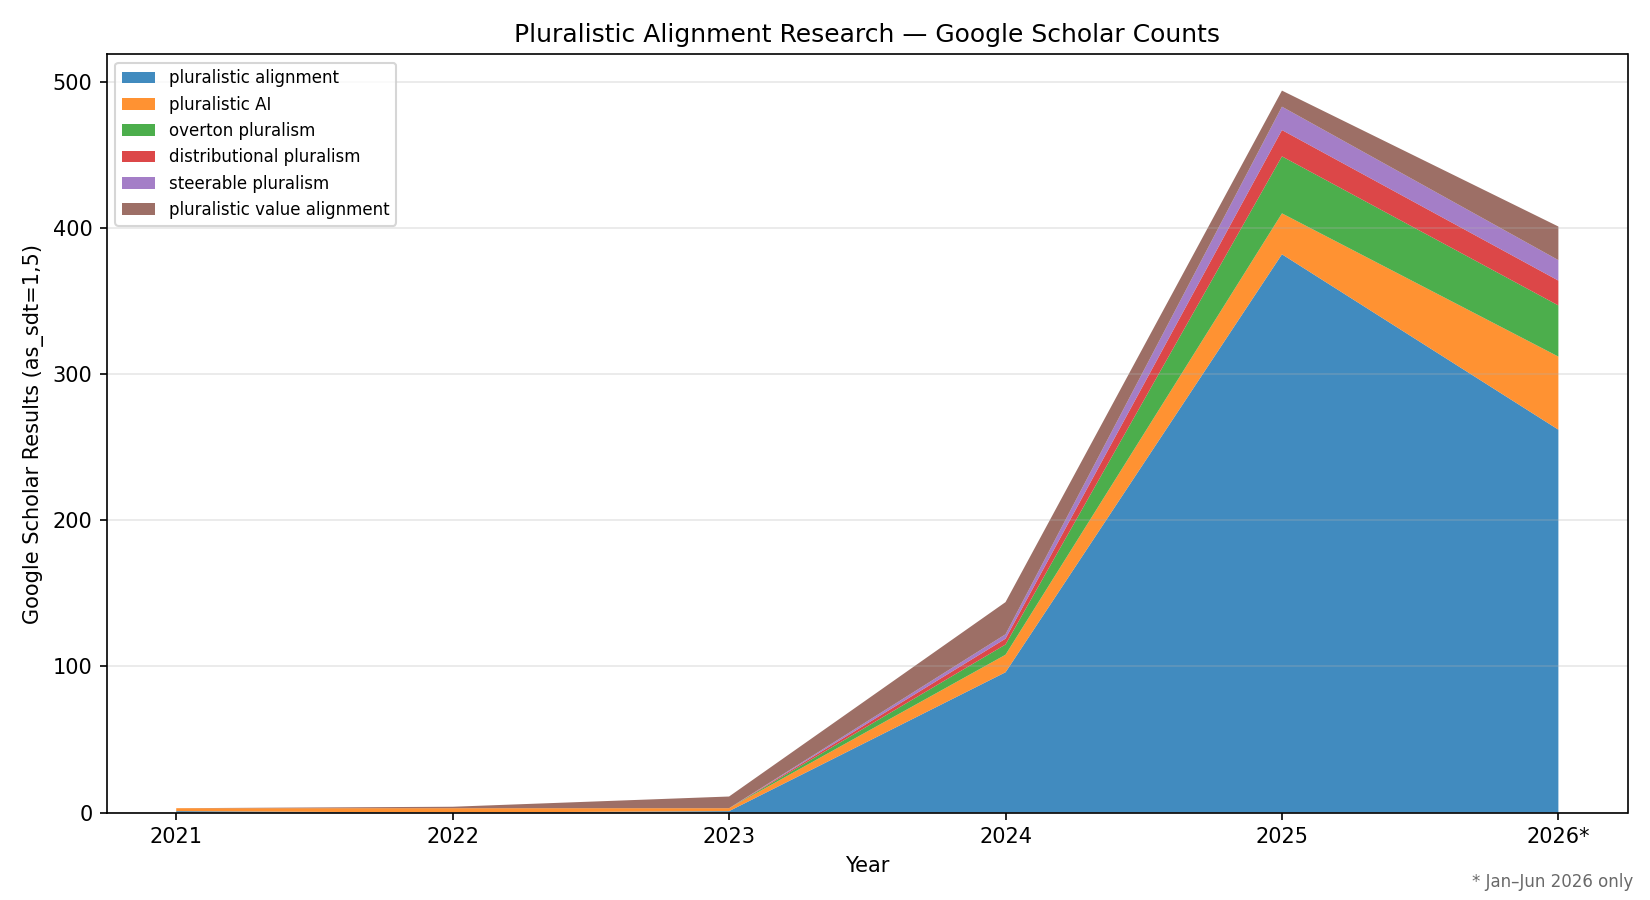
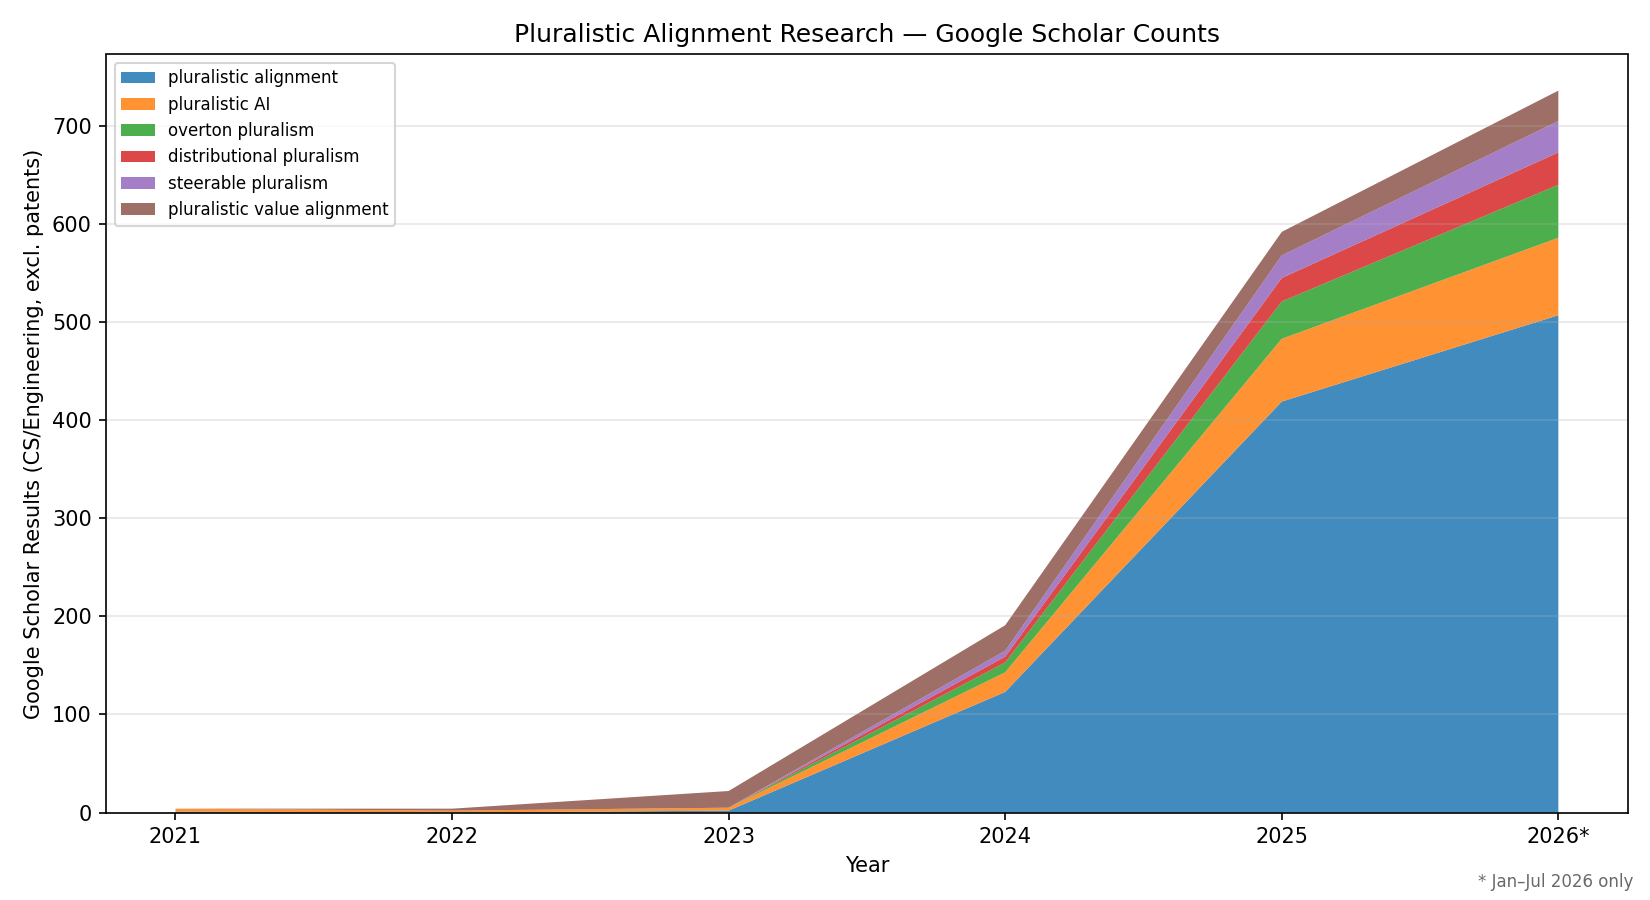
Refresh pluralistic alignment dataset through mid-July 2026
Reran all 6 queries with the same terms and year range. 2026 is now
partial through July instead of June. Growth held: 2026 already
exceeds all of 2025 (736 vs 592 combined).

- Add --partial-label flag to plot_trends.py so the footnote month
  doesn't need to be hardcoded on each refresh
- Update README dataset note

diff --git a/plot_trends.py b/plot_trends.py
@@ -2,7 +2,7 @@
 
 Usage:
     python plot_trends.py data/results_by_term.csv \\
-        --partial-year 2026 \\
+        --partial-year 2026 --partial-label Jul \\
         --title "Pluralistic Alignment Research — Google Scholar Counts" \\
         --out figures/scholar_trends.png
 """
@@ -24,7 +24,7 @@ def load_csv(path):
     return years, terms, data
 
 
-def plot(years, terms, data, partial_year, out, title):
+def plot(years, terms, data, partial_year, partial_label, out, title):
     fig, ax = plt.subplots(figsize=(11, 6))
 
     colors = plt.cm.tab10.colors[: len(terms)]
@@ -45,7 +45,7 @@ def plot(years, terms, data, partial_year, out, title):
 
     if partial_year:
         fig.text(
-            0.99, 0.01, f"* Jan–Jun {partial_year} only",
+            0.99, 0.01, f"* Jan–{partial_label} {partial_year} only",
             ha="right", va="bottom", fontsize=8, color="dimgray",
         )
 
@@ -65,6 +65,10 @@ if __name__ == "__main__":
         "--partial-year", type=int, default=None,
         help="Mark this year with * and add a 'partial year' footnote"
     )
+    parser.add_argument(
+        "--partial-label", default="Jun",
+        help="End month for the partial-year footnote, e.g. 'Jul' (default: Jun)"
+    )
     parser.add_argument("--out", default="figures/scholar_trends.png",
                         help="Output image path (default: figures/scholar_trends.png)")
     parser.add_argument("--title", default="Google Scholar Counts by Search Term",
@@ -72,4 +76,4 @@ if __name__ == "__main__":
     args = parser.parse_args()
 
     years, terms, data = load_csv(args.csv)
-    plot(years, terms, data, args.partial_year, args.out, args.title)
+    plot(years, terms, data, args.partial_year, args.partial_label, args.out, args.title)

diff --git a/README.md b/README.md
@@ -95,13 +95,15 @@ python plot_trends.py data/results_by_term.csv \
 |------|---------|-------------|
 | `csv` | required | Path to results CSV |
 | `--partial-year` | None | Marks this year with `*` and adds a partial-year footnote |
+| `--partial-label` | `Jun` | End month shown in the partial-year footnote, e.g. `Jul` |
 | `--title` | `"Google Scholar Counts by Search Term"` | Plot title |
 | `--out` | `figures/scholar_trends.png` | Output image path |
 
 ### Included dataset
 
 `data/pluralistic_alignment_2021_2026.csv` contains counts for six pluralistic
-alignment search terms (2021–2026), collected June 2026.
+alignment search terms (2021–2026), last updated July 2026 (2026 figures are
+partial, through mid-July).
 
 ![Pluralistic alignment Google Scholar counts](figures/pluralistic_alignment_2021_2026.png)
 